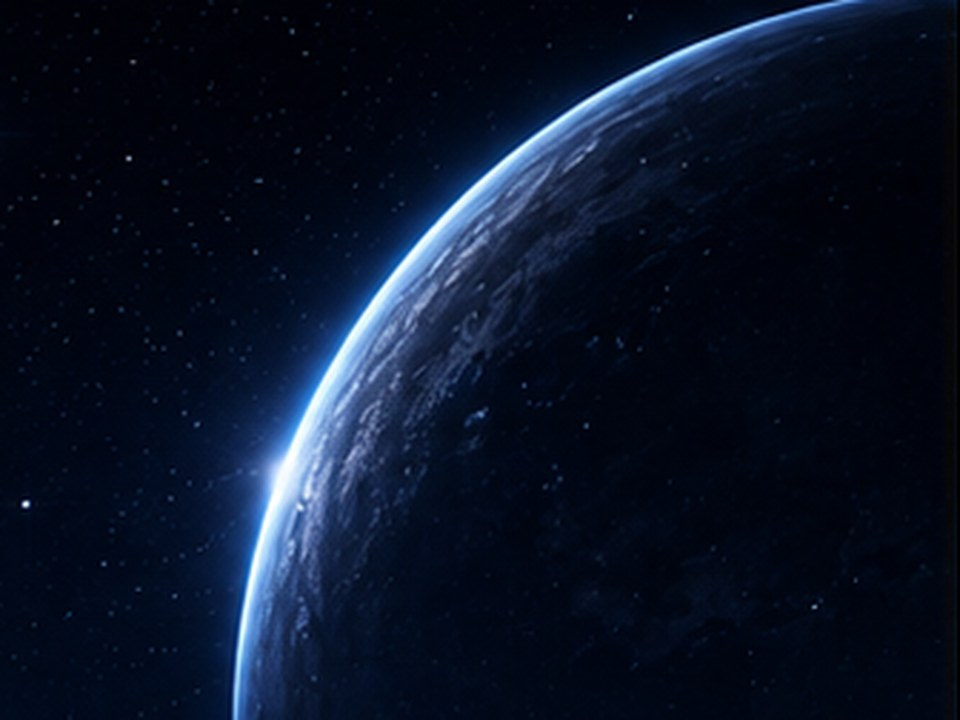
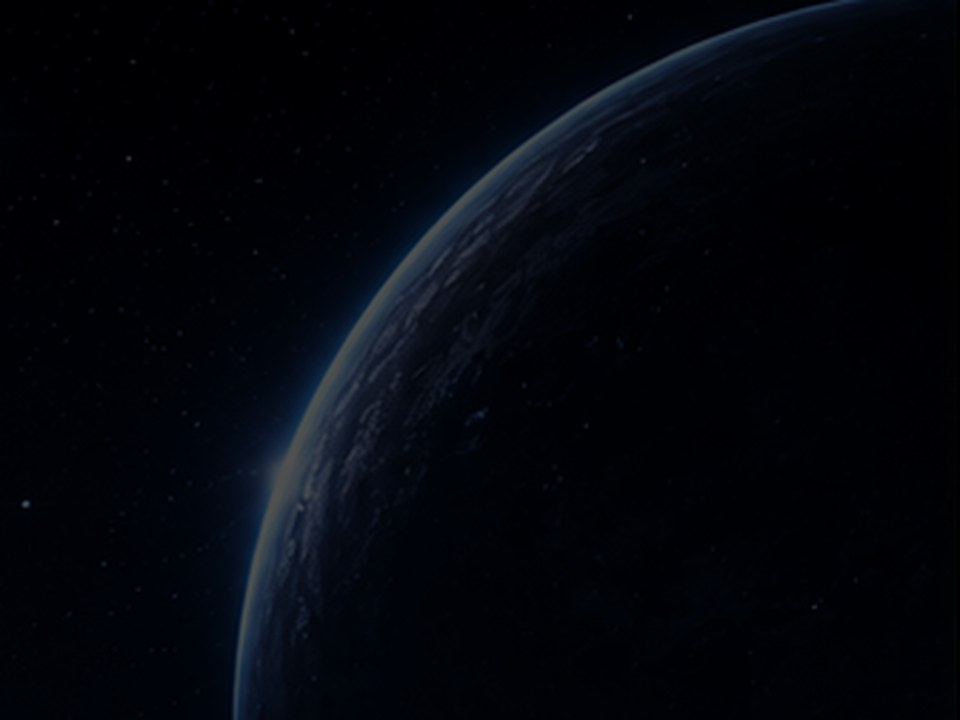
가독성 회귀 수정: 하늘 이미지 리마스터(밝기 0.317) + 하늘 위 어두운 글자 상향
- assets/hero-space.jpg 최고 휘도 (219,253,255) → (80,82,81). 최악 지점 대비:
  text-secondary 5.22 / accent-cyan 6.51 / text-primary 10.14 (기준 4.5/4.5/3.0)
- .stat-label, .not-found__code, .empty-state__desc, .sf-price-note:
  --text-tertiary 계열은 순수 검정 위에서도 최대 4.95라 배경으로 해결 불가 → 한 단계 밝게
- .hero__eyebrow, .sf-eyebrow: 틴트만으로는 하늘 밝기에 대비가 좌우되므로 불투명 바탕 추가

diff --git a/css/site.css b/css/site.css
@@ -344,7 +344,9 @@ a { color: inherit; }
   font-size: 12px;
   letter-spacing: 0.14em;
   color: var(--accent-cyan);
-  background: var(--accent-soft);
+  /* 하늘 배경 위에 놓이므로 뒤가 무엇이든 대비가 보장되도록 불투명 바탕을 깔고
+     그 위에 액센트 틴트를 얹는다 (틴트만 쓰면 하늘 밝기에 대비가 좌우됨) */
+  background: linear-gradient(var(--accent-soft), var(--accent-soft)), rgba(7, 11, 20, 0.82);
   border: 1px solid rgba(85, 214, 255, 0.22);
   padding: 6px 12px;
   border-radius: var(--radius-pill);
@@ -435,7 +437,9 @@ a { color: inherit; }
 }
 
 .stat-label {
-  color: #7d89a3;
+  /* 하늘 배경 위에 직접 놓이므로 --text-tertiary 계열(#7d89a3)로는 WCAG AA(4.5)를
+     만족할 수 없다(순수 검정 위에서도 최대 4.95). 한 단계 밝은 색을 쓴다. */
+  color: var(--text-secondary);
   font-size: 13px;
 }
 
@@ -520,7 +524,8 @@ a { color: inherit; }
 
 .empty-state__desc {
   margin: 0;
-  color: var(--text-tertiary);
+  /* 섹션이 비면 하늘 영역에 걸칠 수 있어 한 단계 밝은 색 */
+  color: var(--text-secondary);
   font-size: 14px;
 }
 
@@ -972,7 +977,8 @@ a.worksheet-card:focus-visible {
 
 .not-found__code {
   font-family: var(--font-mono);
-  color: var(--text-tertiary);
+  /* 하늘 배경 위 — .stat-label 과 같은 이유로 한 단계 밝은 색 */
+  color: var(--text-secondary);
   letter-spacing: 0.14em;
   font-size: 13px;
   margin: 0 0 6px;

diff --git a/worksheets/sentence-forms/index.html b/worksheets/sentence-forms/index.html
@@ -37,7 +37,8 @@
     font-size: 12px;
     letter-spacing: 0.1em;
     color: var(--worksheet-accent);
-    background: var(--worksheet-soft);
+    /* 하늘 배경 위 — 불투명 바탕 위에 틴트를 얹어 대비를 고정 (허브 .hero__eyebrow 와 동일) */
+    background: linear-gradient(var(--worksheet-soft), var(--worksheet-soft)), rgba(7, 11, 20, 0.82);
     padding: 6px 12px;
     border-radius: var(--radius-pill);
     margin: 0 0 16px;
@@ -75,7 +76,8 @@
 
   .sf-price-note {
     font-size: 13px;
-    color: var(--text-faint);
+    /* 하늘 배경 위 — --text-faint(#6f7b96)는 검정 위에서도 AA 미달이라 한 단계 밝게 */
+    color: var(--text-muted);
   }
 
   .sf-cta {
